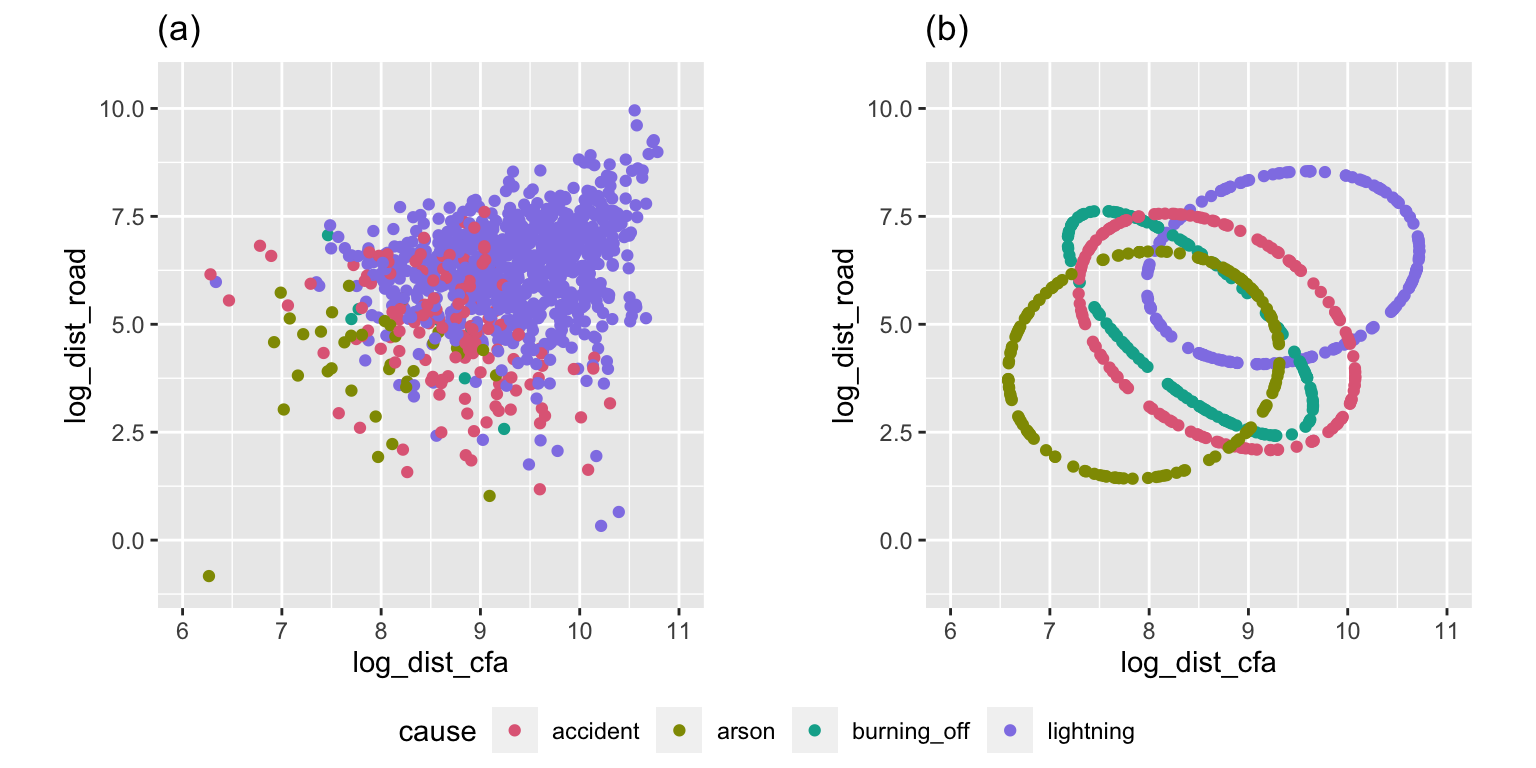
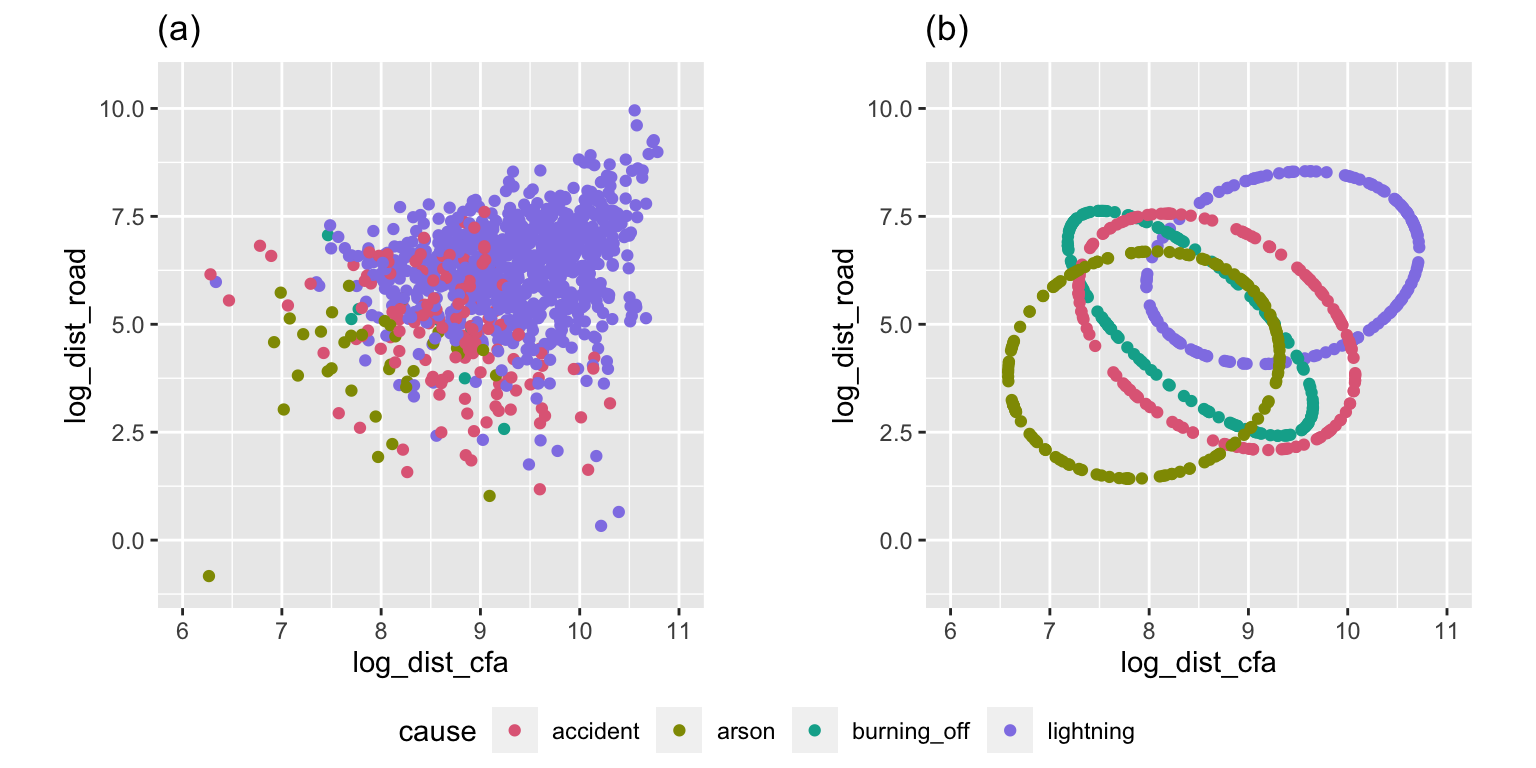
boundaries for LDA model

diff --git a/docs/LDA.html b/docs/LDA.html
@@ -526,6 +526,25 @@ div.csl-indent {
 </section>
 <section id="examining-results" class="level2" data-number="5.3">
 <h2 data-number="5.3" class="anchored" data-anchor-id="examining-results"><span class="header-section-number">5.3</span> Examining results</h2>
+<div class="cell">
+<details>
+<summary>Code</summary>
+<div class="sourceCode cell-code" id="cb4"><pre class="sourceCode r code-with-copy"><code class="sourceCode r"><span id="cb4-1"><a href="#cb4-1" aria-hidden="true" tabindex="-1"></a><span class="fu">library</span>(classifly)</span>
+<span id="cb4-2"><a href="#cb4-2" aria-hidden="true" tabindex="-1"></a><span class="fu">library</span>(MASS)</span>
+<span id="cb4-3"><a href="#cb4-3" aria-hidden="true" tabindex="-1"></a>penguins_lda <span class="ot">&lt;-</span> <span class="fu">lda</span>(species <span class="sc">~</span> ., penguins_sub, <span class="at">prior =</span> <span class="fu">c</span>(<span class="dv">1</span><span class="sc">/</span><span class="dv">3</span>, <span class="dv">1</span><span class="sc">/</span><span class="dv">3</span>, <span class="dv">1</span><span class="sc">/</span><span class="dv">3</span>))</span>
+<span id="cb4-4"><a href="#cb4-4" aria-hidden="true" tabindex="-1"></a>p_lda_boundaries <span class="ot">&lt;-</span> <span class="fu">explore</span>(penguins_lda, penguins_sub)</span>
+<span id="cb4-5"><a href="#cb4-5" aria-hidden="true" tabindex="-1"></a><span class="fu">animate_slice</span>(p_lda_boundaries[p_lda_boundaries<span class="sc">$</span>.TYPE <span class="sc">==</span> <span class="st">"simulated"</span>,<span class="dv">1</span><span class="sc">:</span><span class="dv">4</span>], <span class="at">col=</span>p_lda_boundaries[p_lda_boundaries<span class="sc">$</span>.TYPE <span class="sc">==</span> <span class="st">"simulated"</span>,<span class="dv">6</span>], <span class="at">v_rel=</span><span class="fl">0.02</span>, <span class="at">axes=</span><span class="st">"bottomleft"</span>)</span>
+<span id="cb4-6"><a href="#cb4-6" aria-hidden="true" tabindex="-1"></a><span class="fu">render_gif</span>(p_lda_boundaries[p_lda_boundaries<span class="sc">$</span>.TYPE <span class="sc">==</span> <span class="st">"simulated"</span>,<span class="dv">1</span><span class="sc">:</span><span class="dv">4</span>],</span>
+<span id="cb4-7"><a href="#cb4-7" aria-hidden="true" tabindex="-1"></a>           <span class="fu">planned_tour</span>(pt1),</span>
+<span id="cb4-8"><a href="#cb4-8" aria-hidden="true" tabindex="-1"></a>           <span class="fu">display_slice</span>(<span class="at">v_rel=</span><span class="fl">0.02</span>, </span>
+<span id="cb4-9"><a href="#cb4-9" aria-hidden="true" tabindex="-1"></a>             <span class="at">col=</span>p_lda_boundaries[ p_lda_boundaries<span class="sc">$</span>.TYPE <span class="sc">==</span> <span class="st">"simulated"</span>,<span class="dv">6</span>], </span>
+<span id="cb4-10"><a href="#cb4-10" aria-hidden="true" tabindex="-1"></a>             <span class="at">axes=</span><span class="st">"bottomleft"</span>),                     <span class="at">gif_file=</span><span class="st">"gifs/penguins_lda_boundaries.gif"</span>,</span>
+<span id="cb4-11"><a href="#cb4-11" aria-hidden="true" tabindex="-1"></a>           <span class="at">frames=</span><span class="dv">500</span>,</span>
+<span id="cb4-12"><a href="#cb4-12" aria-hidden="true" tabindex="-1"></a>           <span class="at">loop=</span><span class="cn">FALSE</span></span>
+<span id="cb4-13"><a href="#cb4-13" aria-hidden="true" tabindex="-1"></a>           )</span></code><button title="Copy to Clipboard" class="code-copy-button"><i class="bi"></i></button></pre></div>
+</details>
+</div>
+<p><img src="gifs/penguins_lda_boundaries.gif" id="fig-lda-4D-boundaries" class="img-fluid" alt="Sliced tour to explore the boundaries produced by the LDA classifier on the penguins data." width="300"></p>
 
 
 <div id="refs" class="references csl-bib-body hanging-indent" role="doc-bibliography" style="display: none">
